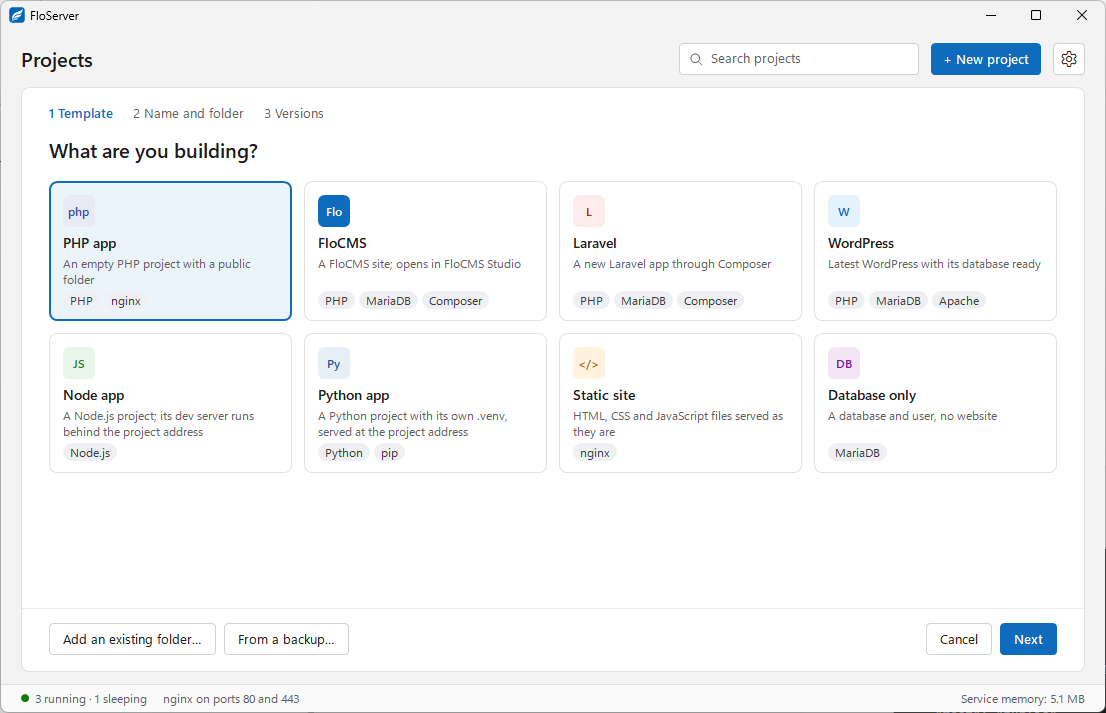
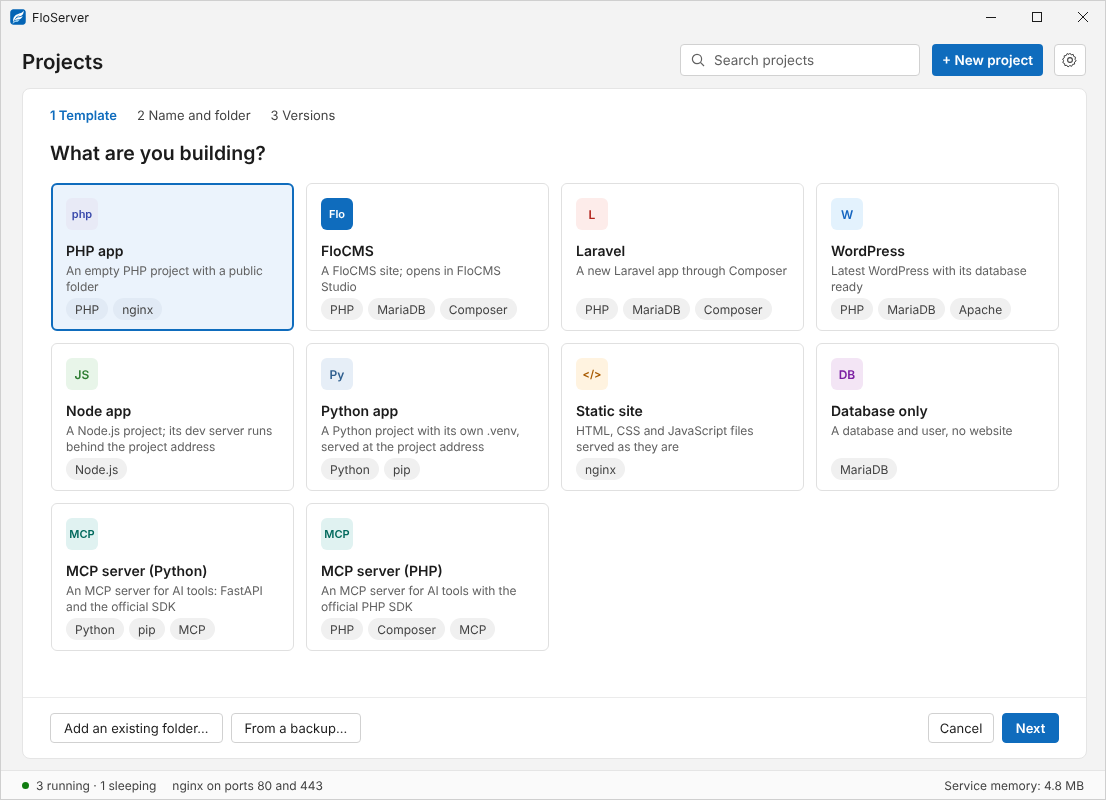
FloServer 0.9.1: release, What's new, Adminer, template cards, screenshots
- Release facts and /download/latest point at 0.9.1 (size still to fill in).
- What's new 0.9.1: Adminer for PostgreSQL and the 0.9.0 fixes.
- Home: phpMyAdmin and Adminer in the environments and the database
  feature; the templates row becomes ten cards from the app's templates.json.
- Screenshots: New project with all ten templates; a PostgreSQL project's
  Database tab with Open in Adminer (both drawn from the app's layout).
- Docs: phpMyAdmin and Adminer section in Databases, Tools in Settings →
  Runtimes, kept names in Create and Rename, first start's offered tools.

Claude-Session: https://claude.ai/code/session_01PSBSHt8VTSV27VBqYqGfsE

diff --git a/src/styles/site.css b/src/styles/site.css
@@ -125,10 +125,19 @@ h2.title { margin: 0; font-size: 38px; line-height: 1.15; font-weight: 700; lett
 .mark { flex: none; width: 44px; height: 44px; border-radius: 10px; display: flex; align-items: center; justify-content: center; }
 .envs b { display: block; font-size: 17px; }
 .envs span.d { display: block; margin-top: 2px; font-size: 14.5px; line-height: 1.5; color: var(--muted); }
-.templates { display: flex; flex-wrap: wrap; align-items: center; gap: 12px 16px; margin-top: 32px; }
-.templates > span { font-size: 15px; font-weight: 600; color: #3B3B3B; }
-.templates ul { list-style: none; margin: 0; padding: 0; display: flex; flex-wrap: wrap; gap: 8px; }
-.templates li { font-size: 14px; font-weight: 600; padding: 6px 12px; border-radius: 16px; background: #FFFFFF; border: 1px solid #D9E4EF; }
+.tpl-head { margin-top: 56px; display: flex; flex-wrap: wrap; align-items: baseline; gap: 6px 20px; }
+.tpl-head h3 { margin: 0; font-size: 22px; }
+.tpl-head p { margin: 0; font-size: 15.5px; color: var(--muted); }
+.tpls { list-style: none; margin: 20px 0 0; padding: 0; display: grid; grid-template-columns: repeat(5, minmax(0, 1fr)); gap: 14px; }
+.tpls li { display: flex; flex-direction: column; align-items: flex-start; padding: 18px; border: 1px solid #E6EDF4; border-radius: 12px; background: #FFFFFF; }
+.tpl-mark { display: inline-flex; align-items: center; justify-content: center; min-width: 34px; height: 34px; padding: 0 7px; border-radius: 8px; font-size: 13px; font-weight: 700; margin-bottom: 12px; }
+.tpls b { font-size: 16px; }
+.tpl-d { margin-top: 4px; font-size: 14px; line-height: 1.5; color: var(--muted); flex: 1; }
+.tpl-chips { display: flex; flex-wrap: wrap; gap: 6px; margin-top: 12px; }
+.tpl-chips span { font-size: 12.5px; padding: 2px 9px; border-radius: 10px; background: #F0F3F7; color: #3B3B3B; }
+@media (max-width: 1100px) { .tpls { grid-template-columns: repeat(3, minmax(0, 1fr)); } }
+@media (max-width: 720px) { .tpls { grid-template-columns: repeat(2, minmax(0, 1fr)); } }
+@media (max-width: 440px) { .tpls { gap: 10px; } .tpls li { padding: 14px; } .tpls b { font-size: 15px; } .tpl-d { font-size: 13px; } }
 
 /* Features */
 .features { display: grid; grid-template-columns: repeat(auto-fit, minmax(300px, 1fr)); gap: 40px 48px; margin-top: 56px; }

diff --git a/src/data/news.js b/src/data/news.js
@@ -2,6 +2,39 @@
 // The app's "What's new" link can point there (the signed list's notes_url).
 export const releases = [
   {
+    version: '0.9.1',
+    date: '23 November 2026',
+    iso: '2026-11-23',
+    summary: 'Adminer for PostgreSQL, and fixes for 0.9.0.',
+    sections: [
+      {
+        title: 'New',
+        items: [
+          '<strong>Adminer for PostgreSQL</strong>: <strong>Open in Adminer</strong> on a PostgreSQL project\'s Database tab signs you in to its database in one click, at <code>adminer.localhost</code>. Settings → Database → PostgreSQL has <strong>Open Adminer</strong>, signed in as <code>postgres</code>. Download Adminer on the first start or in Settings → Runtimes. <a href="/docs/databases/#adminer">Databases</a>',
+        ],
+      },
+      {
+        title: 'Fixed',
+        items: [
+          'MySQL now starts reliably on Windows.',
+          'A MariaDB or MySQL server that FloServer started is no longer mistaken for another program on its port, and a failed start says which check failed.',
+          '<strong>Open in phpMyAdmin</strong> signs in to MySQL databases in one click, as it does for MariaDB.',
+          'PostgreSQL projects no longer offer phpMyAdmin, which only works with MariaDB and MySQL.',
+          'Installing Mailpit or phpMyAdmin also installs nginx, which serves them. The mail page says so when nginx is missing.',
+          'A project can\'t be renamed to <code>adminer</code> or <code>mail</code>: those addresses belong to Adminer and Mailpit, like <code>phpmyadmin</code>.',
+        ],
+      },
+      {
+        title: 'Good to know',
+        items: [
+          'Your projects, databases and settings are kept when you update from 0.9.0 or 0.1.0.',
+          'The setup isn\'t code-signed yet, so Windows SmartScreen may ask: click <strong>More info</strong>, then <strong>Run anyway</strong>.',
+          'Windows 10 and 11, 64-bit. macOS and Linux are planned.',
+        ],
+      },
+    ],
+  },
+  {
     version: '0.9.0',
     date: '21 November 2026',
     iso: '2026-11-21',

diff --git a/src/data/templates.js b/src/data/templates.js
@@ -1,0 +1,15 @@
+// The New project templates, as FloServer 0.9.1 shows them. Copied from
+// tools/manifest-tool/templates.json in hostkurd/floserver (English title,
+// description, chips and the mark's colours); update both together.
+export const templates = [
+  { id: 'php-app', title: 'PHP app', description: 'An empty PHP project with a public folder', chips: ['PHP', 'nginx'], mark: 'php', bg: '#E8EAF6', fg: '#3949AB' },
+  { id: 'flocms', title: 'FloCMS', description: 'A FloCMS site; opens in FloCMS Studio', chips: ['PHP', 'MariaDB', 'Composer'], mark: 'Flo', bg: '#0F6CBD', fg: '#FFFFFF' },
+  { id: 'laravel', title: 'Laravel', description: 'A new Laravel app through Composer', chips: ['PHP', 'MariaDB', 'Composer'], mark: 'L', bg: '#FDECEA', fg: '#B3261E' },
+  { id: 'wordpress', title: 'WordPress', description: 'Latest WordPress with its database ready', chips: ['PHP', 'MariaDB', 'Apache'], mark: 'W', bg: '#E3F2FD', fg: '#1565C0' },
+  { id: 'node-app', title: 'Node app', description: 'A Node.js project; its dev server runs behind the project address', chips: ['Node.js'], mark: 'JS', bg: '#E8F5E9', fg: '#2E7D32' },
+  { id: 'python-app', title: 'Python app', description: 'A Python project with its own .venv, served at the project address', chips: ['Python', 'pip'], mark: 'Py', bg: '#E6EEF7', fg: '#2F5F8F' },
+  { id: 'static-site', title: 'Static site', description: 'HTML, CSS and JavaScript files served as they are', chips: ['nginx'], mark: '</>', bg: '#FFF3E0', fg: '#A85A00' },
+  { id: 'database-only', title: 'Database only', description: 'A database and user, no website', chips: ['MariaDB'], mark: 'DB', bg: '#F3E5F5', fg: '#7B1FA2' },
+  { id: 'mcp-python', title: 'MCP server (Python)', description: 'An MCP server for AI tools: FastAPI and the official SDK', chips: ['Python', 'pip', 'MCP'], mark: 'MCP', bg: '#E0F2F1', fg: '#00695C' },
+  { id: 'mcp-php', title: 'MCP server (PHP)', description: 'An MCP server for AI tools with the official PHP SDK', chips: ['PHP', 'Composer', 'MCP'], mark: 'MCP', bg: '#E0F2F1', fg: '#00695C' },
+];

diff --git a/src/data/site.js b/src/data/site.js
@@ -1,10 +1,10 @@
 // Facts used across the site. Change a release here, and in public/_redirects.
 export const release = {
-  version: '0.9.0',
-  date: '21 November 2026',
-  setupUrl: 'https://cdn.floserver.org/app/0.9.0/FloServer-Setup-0.9.0.exe',
-  setupFile: 'FloServer-Setup-0.9.0.exe',
-  size: '4.1 MB',
+  version: '0.9.1',
+  date: '23 November 2026',
+  setupUrl: 'https://cdn.floserver.org/app/0.9.1/FloServer-Setup-0.9.1.exe',
+  setupFile: 'FloServer-Setup-0.9.1.exe',
+  size: 'SIZE', // TODO: the 0.9.1 setup's size once it is on the CDN
 };
 
 const companyAddress = {

diff --git a/src/pages/docs/databases.md b/src/pages/docs/databases.md
@@ -1,7 +1,7 @@
 ---
 layout: ../../layouts/Docs.astro
 title: Databases
-description: 'Each FloServer project gets its own database and user in MariaDB, MySQL or PostgreSQL. Connection settings, .env lines, phpMyAdmin and Settings → Database.'
+description: 'Each FloServer project gets its own database and user in MariaDB, MySQL or PostgreSQL. Connection settings, .env lines, phpMyAdmin, Adminer and Settings → Database.'
 lead: 'Every project that uses a database gets its own database and user, in MariaDB, MySQL or PostgreSQL.'
 ---
 
@@ -21,10 +21,29 @@ Download and remove versions in [Settings → Runtimes](/docs/settings/runtimes/
 
 Open a project's panel and choose **Database**. It shows the database's name, the address (such as `127.0.0.1:3306`) and the user.
 
-<figure><img src="/img/docs/window-database.png" width="1106" height="713" loading="lazy" alt="The project panel on the Database tab, showing database my_shop with Copy .env lines and Open in phpMyAdmin buttons"><figcaption>The Database tab for my-shop.</figcaption></figure>
+<figure><img src="/img/docs/window-database.png" width="1106" height="713" loading="lazy" alt="The project panel on the Database tab, showing database my_shop with Copy .env lines and Open in phpMyAdmin buttons"><figcaption>The Database tab for my-shop, a MariaDB project.</figcaption></figure>
 
 - **Copy .env lines** puts the connection settings on your clipboard, ready to paste into your project's `.env`. For PostgreSQL they say `pgsql`; Python projects also get a `DATABASE_URL`.
-- **Open in phpMyAdmin** opens a MariaDB or MySQL database in your browser. For PostgreSQL, connect a tool such as pgAdmin or DBeaver to the address shown.
+- **Open in phpMyAdmin** (MariaDB and MySQL) or **Open in Adminer** (PostgreSQL) opens the database in your browser, already signed in. See [below](#tools).
+
+## phpMyAdmin and Adminer {#tools}
+
+FloServer opens each database in a browser tool that suits its engine, signed in with the project's own user, so you never type a password.
+
+| Engine | Tool | Address |
+| --- | --- | --- |
+| MariaDB, MySQL | **phpMyAdmin** | `phpmyadmin.localhost` |
+| PostgreSQL | **Adminer** | `adminer.localhost` |
+
+Neither is installed at first. Tick them on the [first start](/docs/first-start/#runtimes), or download them in [Settings → Runtimes](/docs/settings/runtimes/#tools); until then the button says where to get it. They run on the newest PHP you have installed, so they don't hold on to a PHP version.
+
+### Adminer for PostgreSQL {#adminer}
+
+<figure><img src="/img/docs/window-database-postgresql.png" width="1106" height="713" loading="lazy" alt="The project panel on the Database tab of the PostgreSQL project crm, showing database crm on 127.0.0.1:5432 with Copy .env lines and Open in Adminer buttons"><figcaption>The Database tab for crm, a PostgreSQL project.</figcaption></figure>
+
+- **Open in Adminer** on a project's Database tab signs in as the project's user, straight into its database.
+- **Open Adminer** in Settings → Database → PostgreSQL signs in as `postgres`, to look after the whole server.
+- Each sign-in link works once. In FloServer, Adminer only opens FloServer's own PostgreSQL servers; MariaDB and MySQL databases open in phpMyAdmin.
 
 ## Settings → Database {#settings}
 
@@ -34,6 +53,7 @@ Settings → Database looks after the servers themselves. There's one server per
 - **Port**: automatic by default: 3306 for MariaDB and MySQL, 5432 for PostgreSQL, or the next free one. If you change it, copy the new lines from each project's Database tab.
 - **Your own settings**: **Add your own my.ini lines…** (MariaDB and MySQL) or **Add your own postgresql.conf lines…** (PostgreSQL). Your lines win over the fields, and the server uses them when it next starts. **Show the final…** opens what the server really uses.
 - **Root access** (MariaDB and MySQL) or **Superuser access** (PostgreSQL): the password of `root` or `postgres`, for database tools. Projects never use it.
+- **Open phpMyAdmin** or **Open Adminer**: the server in your browser, signed in as `root` or `postgres`.
 
 <div class="note" role="note"><svg width="20" height="20" viewBox="0 0 20 20" aria-hidden="true"><path d="M10 2.5l8 14H2z" stroke="#8A5A00" stroke-width="1.6" fill="none" stroke-linejoin="round"/><path d="M10 8v4M10 14.2v.3" stroke="#8A5A00" stroke-width="1.8" stroke-linecap="round"/></svg><p>MySQL and PostgreSQL can't start when the path of your Windows user folder has letters outside English and Windows keeps no short name for it. Use MariaDB on that computer, or a Windows user whose folder name has English letters only.</p></div>
 

diff --git a/src/pages/docs/index.md b/src/pages/docs/index.md
@@ -6,7 +6,7 @@ lead: 'How to use every part of FloServer: the window, its settings and the comm
 ---
 
 <div class="cards" data-pagefind-ignore>
-  <a class="card" href="/docs/install/"><span class="shot"><img src="/img/docs/new-project.png" alt="" loading="lazy" width="1106" height="713"></span><span class="txt"><b>Get started</b><span class="d">Install FloServer, pick your runtimes and create your first project.</span></span></a>
+  <a class="card" href="/docs/install/"><span class="shot"><img src="/img/docs/new-project.png" alt="" loading="lazy" width="1106" height="800"></span><span class="txt"><b>Get started</b><span class="d">Install FloServer, pick your runtimes and create your first project.</span></span></a>
   <a class="card" href="/docs/window/"><span class="shot"><img src="/img/docs/window-general.png" alt="" loading="lazy" width="1106" height="713"></span><span class="txt"><b>The projects window</b><span class="d">Every project, its state and versions, and its panel.</span></span></a>
   <a class="card" href="/docs/project-menu/"><span class="shot"><img src="/img/docs/window-menu.png" alt="" loading="lazy" width="1106" height="713"></span><span class="txt"><b>Right-click menu</b><span class="d">Open, rename, back up, restore or remove a project.</span></span></a>
   <a class="card" href="/docs/settings/"><span class="shot"><img src="/img/docs/settings-runtimes.png" alt="" loading="lazy" width="1026" height="713"></span><span class="txt"><b>Settings</b><span class="d">Runtimes, PHP, databases, mail, Redis, ports and HTTPS, and more.</span></span></a>
@@ -26,7 +26,7 @@ lead: 'How to use every part of FloServer: the window, its settings and the comm
   <li><a href="/docs/window/">The projects window</a><span>The list, states, shared sites and the status bar.</span></li>
   <li><a href="/docs/project-panel/">Project panel</a><span>The General, PHP, Database and Log tabs.</span></li>
   <li><a href="/docs/project-menu/">Right-click menu</a><span>Everything you can do with a project.</span></li>
-  <li><a href="/docs/databases/">Databases</a><span>MariaDB, MySQL or PostgreSQL, a database per project, .env lines.</span></li>
+  <li><a href="/docs/databases/">Databases</a><span>MariaDB, MySQL or PostgreSQL, a database per project, phpMyAdmin and Adminer.</span></li>
   <li><a href="/docs/mail/">Mail (Mailpit)</a><span>Catch every email your projects send.</span></li>
   <li><a href="/docs/redis/">Redis</a><span>A shared Redis server for caches, queues and sessions.</span></li>
   <li><a href="/docs/javascript/">Node.js, Bun and Deno</a><span>JavaScript projects behind their own address.</span></li>

diff --git a/src/pages/docs/create-project.md b/src/pages/docs/create-project.md
@@ -7,7 +7,7 @@ lead: 'Click <strong>+ New project</strong> at the top of the projects window. I
 
 ## Pick a template {#templates}
 
-<figure><img src="/img/docs/new-project.png" width="1106" height="713" loading="lazy" alt="The New project screen with its template cards: PHP app, FloCMS, Laravel, WordPress, Node app, Python app, Static site, Database only and the two MCP server templates"><figcaption>Each card shows what the template sets up.</figcaption></figure>
+<figure><img src="/img/docs/new-project.png" width="1106" height="800" loading="lazy" alt="The New project screen with its template cards: PHP app, FloCMS, Laravel, WordPress, Node app, Python app, Static site, Database only and the two MCP server templates"><figcaption>Each card shows what the template sets up.</figcaption></figure>
 
 | Template | What you get |
 | --- | --- |
@@ -24,7 +24,7 @@ lead: 'Click <strong>+ New project</strong> at the top of the projects window. I
 
 ## Name, folder and versions {#name}
 
-Give the project a name: it becomes its address, `https://<name>.localhost`. New projects go in the projects folder, which you can change in [Settings → Folders](/docs/settings/folders/). Then check the versions it will use: PHP, the database (MariaDB, MySQL or PostgreSQL), the JavaScript runtime (Node.js, Bun or Deno) and Python, as the template needs.
+Give the project a name: it becomes its address, `https://<name>.localhost`. The names `phpmyadmin`, `adminer` and `mail` are kept for phpMyAdmin, Adminer and Mailpit's inbox. New projects go in the projects folder, which you can change in [Settings → Folders](/docs/settings/folders/). Then check the versions it will use: PHP, the database (MariaDB, MySQL or PostgreSQL), the JavaScript runtime (Node.js, Bun or Deno) and Python, as the template needs.
 
 ## A project you already have {#existing}
 

diff --git a/src/pages/docs/settings/runtimes.md b/src/pages/docs/settings/runtimes.md
@@ -11,6 +11,19 @@ Each runtime lists its versions: the default, what uses it, and **Download** or 
 
 <figure><img src="/img/docs/settings-runtimes.png" width="1026" height="713" loading="lazy" alt="Settings on the Runtimes page: PHP 8.5.12 installed as the default, 8.4, 8.3 and 8.2 to download; MariaDB 11.8 and 11.4; nginx and Apache"><figcaption>Settings → Runtimes.</figcaption></figure>
 
+## Tools {#tools}
+
+Below the web servers, **Tools** lists the browser tools and services that projects share:
+
+| Tool | What it's for |
+| --- | --- |
+| **phpMyAdmin** | MariaDB and MySQL databases in the browser, at `phpmyadmin.localhost` |
+| **Adminer** | PostgreSQL databases in the browser, at `adminer.localhost` |
+| **Mailpit** | The inbox for your projects' mail, at `mail.localhost`. See [Mail](/docs/mail/) |
+| **Garnet** | The shared Redis server. See [Redis](/docs/redis/) |
+
+Each row says where the tool opens. phpMyAdmin, Adminer and Mailpit are served by nginx, so installing one also installs nginx if it's missing.
+
 ## Default for new projects {#default}
 
 For PHP and MariaDB, **default for new projects** can be a fixed version or **Newest installed**.

diff --git a/src/pages/docs/first-start.md b/src/pages/docs/first-start.md
@@ -13,7 +13,7 @@ Pick **Same as Windows**, English, <span lang="ar" dir="rtl">العربية</spa
 
 ## 2. Runtimes {#runtimes}
 
-Choose what to download now: PHP, MariaDB, Node.js, Composer and others, such as MySQL, PostgreSQL, Bun, Deno, Python, Mailpit and Redis (Garnet). nginx is always included. Every file is checked against FloServer's signed list before it's used. You can go on to the next step while the downloads keep going, even if you close the window.
+Choose what to download now: PHP, MariaDB, Node.js, Composer and Mailpit are ticked; others, such as MySQL, PostgreSQL, Bun, Deno, Python, Redis (Garnet), Apache, phpMyAdmin and Adminer, are there to tick. nginx is always included. Every file is checked against FloServer's signed list before it's used. You can go on to the next step while the downloads keep going, even if you close the window.
 
 Other versions, and removing these, are in [Settings → Runtimes](/docs/settings/runtimes/). A project that needs something missing offers to download it.
 

diff --git a/src/pages/docs/rename.md b/src/pages/docs/rename.md
@@ -7,7 +7,7 @@ lead: 'Right-click a project and choose <strong>Rename…</strong>'
 
 ## The new name {#name}
 
-Letters a–z, digits and `-`. The address follows the new name, and the old address stops working.
+Letters a–z, digits and `-`. The address follows the new name, and the old address stops working. A project can't take the names `phpmyadmin`, `adminer` or `mail`: those addresses belong to phpMyAdmin, Adminer and Mailpit's inbox.
 
 <figure><img src="/img/docs/project-rename-dialog.png" width="498" height="351" loading="lazy" style="max-width:500px" alt="The Rename my-shop window with the new name shop-2026"><figcaption>Rename my-shop.</figcaption></figure>
 
